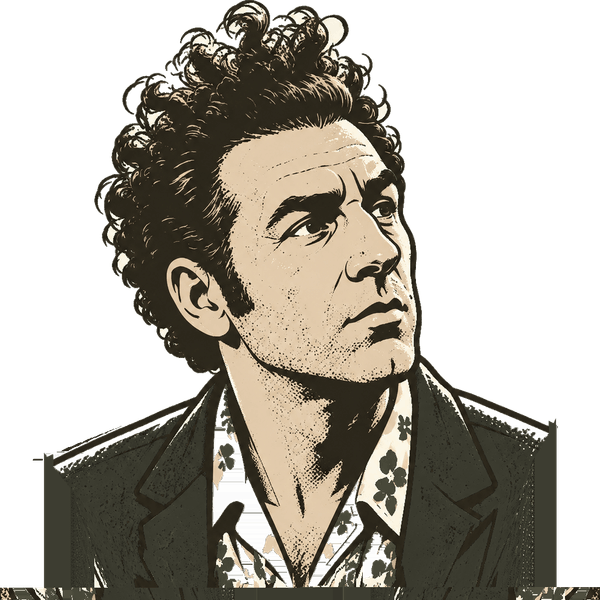
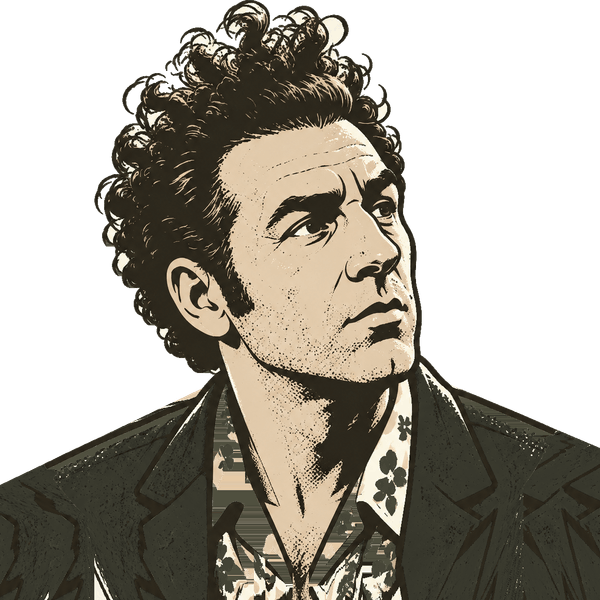
404: Kramer's shoulders carried to the frame along their own line; the back reads left-aligned
The drawing's arc meets the sides high, so the pipeline's side fill
made wedges. The bust is keyed with the pipeline (its steps are now
exported), and each shoulder continues to the frame along its fitted
top line, filled with the jacket's own print. The phone-width
centering now applies to the copy column only, not the card back.

Claude-Session: https://claude.ai/code/session_01Gm8UBWtQbn8uv3sSjieU6q

diff --git a/web/src/lib/riso.ts b/web/src/lib/riso.ts
@@ -18,12 +18,12 @@ const KEY_BAND = 10;    // border band the background colour is read from
 const TAKE_SIDE = 1024; // a stored take keeps the model's full size
 const SET_SIDE = 600;   // one card portrait, crisp on a retina card in the focus view
 
-async function decode(png: Buffer): Promise<Raw> {
+export async function decode(png: Buffer): Promise<Raw> {
   const { data, info } = await sharp(png).ensureAlpha().raw().toBuffer({ resolveWithObject: true });
   return { data: new Uint8Array(data.buffer, data.byteOffset, data.byteLength), w: info.width, h: info.height };
 }
 /** Never upscaled; a few inks and a flat shirt take a palette PNG well, at a fraction of the size. */
-function encode(r: Raw, side: number): Promise<Buffer> {
+export function encode(r: Raw, side: number): Promise<Buffer> {
   const out = Math.min(side, r.w);
   return sharp(Buffer.from(r.data.buffer, r.data.byteOffset, r.data.byteLength), { raw: { width: r.w, height: r.h, channels: 4 } })
     .resize(out, out, { kernel: 'lanczos3', fit: 'fill' }).png({ compressionLevel: 9, palette: true, quality: 90, dither: 0.2 }).toBuffer();
@@ -50,7 +50,7 @@ const isFabric = (r: number, g: number, b: number) => {
 };
 
 /** Cream background to alpha: the background colour is the border's median; only background that touches the border goes, so cream inside the drawing stays. Soft edge. */
-function keyOut(r: Raw): Raw {
+export function keyOut(r: Raw): Raw {
   const { data, w, h } = r;
   let opaque = true;
   for (let i = 3; i < data.length; i += 4) if (data[i] < 250) { opaque = false; break; }
@@ -112,7 +112,7 @@ function keyOut(r: Raw): Raw {
 }
 
 /** The keyed bust on a square canvas, bottom-anchored and centred, with everything under the arc filled with the shirt so it has a flat bottom. */
-function squareAndFill(r: Raw): { canvas: Raw; shirt: RGB } {
+export function squareAndFill(r: Raw): { canvas: Raw; shirt: RGB } {
   const { data, w, h } = r, side = Math.max(w, h), ox = (side - w) >> 1, oy = side - h;
   const c = new Uint8Array(side * side * 4);
   for (let y = 0; y < h; y++) c.set(data.subarray(y * w * 4, (y + 1) * w * 4), ((y + oy) * side + ox) * 4);
@@ -164,7 +164,7 @@ function squareAndFill(r: Raw): { canvas: Raw; shirt: RGB } {
 }
 
 /** Slate shirt pixels take the team's frame colour, keeping the print's light and dark variation. */
-function recolor(r: Raw, shirt: RGB, frame: string): Raw {
+export function recolor(r: Raw, shirt: RGB, frame: string): Raw {
   const out = new Uint8Array(r.data), t = hex(frame), sm = Math.max((shirt[0] + shirt[1] + shirt[2]) / 3, 1);
   for (let i = 0; i < out.length; i += 4) {
     if (out[i + 3] === 0 || !isFabric(out[i], out[i + 1], out[i + 2])) continue;

diff --git a/web/src/app/globals.css b/web/src/app/globals.css
@@ -655,7 +655,8 @@ kbd{font-family:var(--mono);font-size:11px;border:1px solid var(--hair);border-r
 .nf-copy .cta .btn.primary{border-color:var(--ink)}
 .nf-hint{margin-top:16px;font:700 10.5px var(--cond);letter-spacing:.14em;text-transform:uppercase;color:var(--muted)}
 @media (max-width:720px){
-  .nf-main{grid-template-columns:1fr;gap:34px;padding-top:30px;text-align:center}
+  .nf-main{grid-template-columns:1fr;gap:34px;padding-top:30px}
+  .nf-copy{text-align:center}
   .nf-copy p{margin-inline:auto}
   .nf-copy .cta{justify-content:center}
   .nf-hint{display:none}
